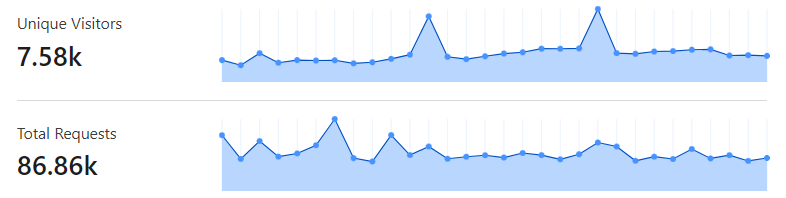
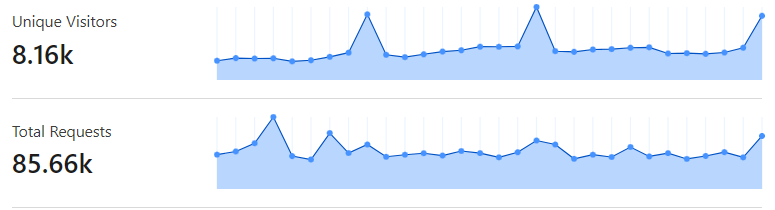
updated traffic stats

diff --git a/donate.html b/donate.html
@@ -97,7 +97,7 @@
          </div>
 
          <p class="my-4 h4">Overview Stats and Traffic</p>
-         Website has an average traffic of over 7000 unique visitors last month.
+         Website has an average traffic of over 8000 unique visitors last month.
          <img src="img/traffic-stats.png" class="img-fluid rounded mt-3" width="768" height="212" title="Website Traffic"
             alt="Cloudflare Website Traffic">
 
